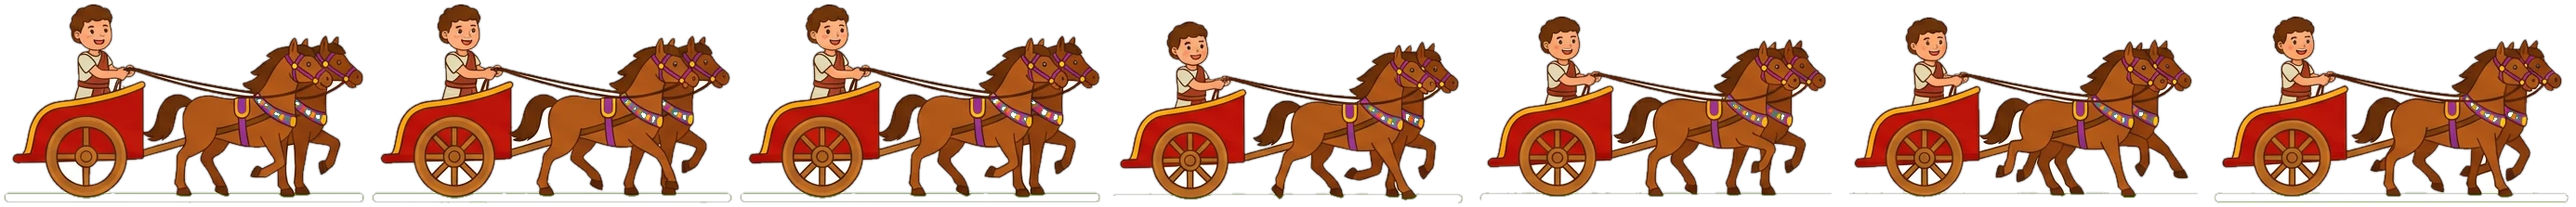
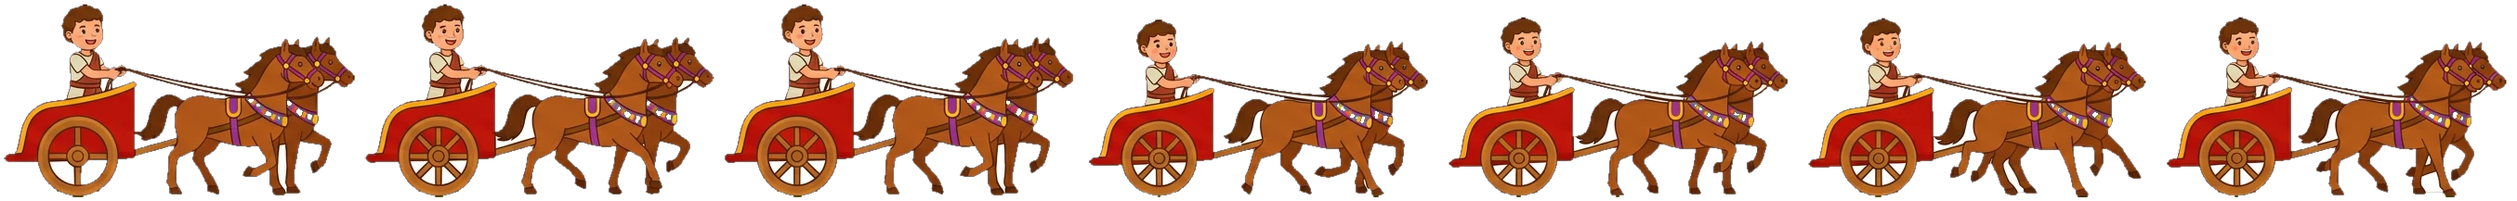
Frise : détourage propre, sens de marche, rythme calme, cap 2026
- Les 6 spritesheets re-détourés avec contour érodé d'un pixel (plus
  de liseré blanc) et herbe du char nettoyée plus fort.
- Les personnages se retournent selon le sens du glissement : on
  avance dans le temps, ils vont vers la gauche avec le paysage ; on
  recule, ils font demi-tour.
- Animation ralentie (une pose tous les 24 px au lieu de 12).
- La frise va jusqu'en 2026 (échelle, graduations, époques, barème via
  maxYear) ; tests et SPEC ajustés.

Claude-Session: https://claude.ai/code/session_01MoSM3c75amsanL64Sy4Ynm

Changed region(s): [[0.0, 0.0276, 1.0, 0.9954], [0.7442, 0.0829, 0.7752, 0.1106], [0.4341, 0.1106, 0.4651, 0.1382]]

diff --git a/erea_flutter/lib/ui/tape_widget.dart b/erea_flutter/lib/ui/tape_widget.dart
@@ -98,6 +98,11 @@ class _TapeWidgetState extends State<TapeWidget>
   double _velocity = 0; // px par frame de référence (16,7 ms)
   Duration _lastTick = Duration.zero;
 
+  // Sens de marche des personnages : on avance dans le temps → ils vont
+  // vers la gauche avec le paysage ; on recule → ils font demi-tour.
+  double _lastFrac = -1;
+  bool _facingLeft = false;
+
   @override
   void initState() {
     super.initState();
@@ -160,6 +165,10 @@ class _TapeWidgetState extends State<TapeWidget>
 
   @override
   Widget build(BuildContext context) {
+    if (_lastFrac >= 0 && (widget.frac - _lastFrac).abs() > 1e-7) {
+      _facingLeft = widget.frac > _lastFrac;
+    }
+    _lastFrac = widget.frac;
     return GestureDetector(
       onHorizontalDragStart: _onDragStart,
       onHorizontalDragUpdate: _onDragUpdate,
@@ -176,6 +185,7 @@ class _TapeWidgetState extends State<TapeWidget>
                     tapeW: tapeW,
                     frise: _friseImage,
                     artVersion: _artVersion,
+                    facingLeft: _facingLeft,
                   ),
                 ),
               ),
@@ -208,10 +218,15 @@ class _TapePainter extends CustomPainter {
     required this.tapeW,
     this.frise,
     this.artVersion = 0,
+    this.facingLeft = false,
   });
 
   final double frac;
   final double tapeW;
+
+  /// Sens de marche des personnages (dessinés vers la droite dans les
+  /// planches ; miroir quand on avance dans le temps).
+  final bool facingLeft;
 
   /// Planche des panneaux d'époques (6 cellules côte à côte), ou null
   /// tant qu'elle n'est pas décodée.
@@ -330,15 +345,22 @@ class _TapePainter extends CustomPainter {
             final x = left + spacing * (k + 0.5) - sprW / 2;
             var fi = 0;
             if (frames > 1) {
-              fi = ((frac * tapeW / 12).floor() + k) % frames;
+              fi = ((frac * tapeW / 24).floor() + k) % frames;
               if (fi < 0) fi += frames;
             }
-            canvas.drawImageRect(
-              trav,
-              Rect.fromLTWH(fi * fw, 0, fw, fh),
-              Rect.fromLTWH(x, bandBottom - sprH - 2, sprW, sprH),
-              imgPaint,
-            );
+            final srcR = Rect.fromLTWH(fi * fw, 0, fw, fh);
+            final dstR =
+                Rect.fromLTWH(x, bandBottom - sprH - 2, sprW, sprH);
+            if (facingLeft) {
+              canvas.save();
+              canvas.translate(x + sprW / 2, 0);
+              canvas.scale(-1, 1);
+              canvas.translate(-(x + sprW / 2), 0);
+              canvas.drawImageRect(trav, srcR, dstR, imgPaint);
+              canvas.restore();
+            } else {
+              canvas.drawImageRect(trav, srcR, dstR, imgPaint);
+            }
           }
         }
         canvas.restore();
@@ -450,7 +472,7 @@ class _TapePainter extends CustomPainter {
       1900,
       1950,
       2000,
-      2025,
+      2026,
     ];
     const smallLabels = [
       -2500,
@@ -506,5 +528,6 @@ class _TapePainter extends CustomPainter {
       oldDelegate.frac != frac ||
       oldDelegate.tapeW != tapeW ||
       oldDelegate.frise != frise ||
-      oldDelegate.artVersion != artVersion;
+      oldDelegate.artVersion != artVersion ||
+      oldDelegate.facingLeft != facingLeft;
 }

diff --git a/erea_flutter/test/core_test.dart b/erea_flutter/test/core_test.dart
@@ -18,7 +18,7 @@ void main() {
     });
 
     test('yearToFrac et fracToYear sont réciproques', () {
-      for (final y in [-3000, -480, 0, 800, 1492, 1789, 1900, 1969, 2025]) {
+      for (final y in [-3000, -480, 0, 800, 1492, 1789, 1900, 1969, 2026]) {
         expect(fracToYear(yearToFrac(y)), y, reason: 'année $y');
       }
     });
@@ -31,7 +31,7 @@ void main() {
     });
 
     test('le XXe siècle occupe 30 % de la frise (précision voulue)', () {
-      expect(yearToFrac(2025) - yearToFrac(1900), closeTo(0.30, 1e-9));
+      expect(yearToFrac(2026) - yearToFrac(1900), closeTo(0.30, 1e-9));
     });
 
     test('formatYear ajoute « av. J.-C. » pour les années négatives', () {
@@ -68,8 +68,8 @@ void main() {
     test('la tolérance vaut 5 % de l’ancienneté, bornée à [5, 45]', () {
       expect(tolerance(2025, Difficulty.normal), 5.0); // plancher
       expect(tolerance(1000, Difficulty.normal), 45.0); // plafond
-      expect(tolerance(1800, Difficulty.normal), closeTo(11.25, 1e-9));
-      expect(tolerance(1800, Difficulty.facile), closeTo(11.25 * 2.2, 1e-9));
+      expect(tolerance(1800, Difficulty.normal), closeTo(11.3, 1e-9));
+      expect(tolerance(1800, Difficulty.facile), closeTo(11.3 * 2.2, 1e-9));
     });
 
     test('le score décroît avec l’écart et jamais en négatif', () {

diff --git a/erea_flutter/lib/core/timeline_scale.dart b/erea_flutter/lib/core/timeline_scale.dart
@@ -3,7 +3,7 @@
 library;
 
 const int minYear = -3000;
-const int maxYear = 2025;
+const int maxYear = 2026;
 
 class Segment {
   final int from;
@@ -16,7 +16,7 @@ const List<Segment> segments = [
   Segment(-3000, 0, 0.20),
   Segment(0, 1500, 0.25),
   Segment(1500, 1900, 0.25),
-  Segment(1900, 2025, 0.30),
+  Segment(1900, 2026, 0.30),
 ];
 
 /// Année → position [0, 1] sur la frise.
@@ -67,7 +67,7 @@ const List<Era> eras = [
   Era(-500, 476, 'Antiquité'),
   Era(476, 1492, 'Moyen Âge'),
   Era(1492, 1789, 'Époque moderne'),
-  Era(1789, 2025, 'Époque contemporaine'),
+  Era(1789, 2026, 'Époque contemporaine'),
 ];
 
 Era eraFor(int y) {

diff --git a/erea_flutter/test/widget_test.dart b/erea_flutter/test/widget_test.dart
@@ -125,9 +125,9 @@ void main() {
     expect(find.text('3000 av. J.-C.'), findsOneWidget);
     expect(tester.takeException(), isNull);
 
-    tape.onFracChanged(1.0); // 2025, époque contemporaine
+    tape.onFracChanged(1.0); // 2026, époque contemporaine
     await tester.pumpAndSettle();
-    expect(find.text('2025'), findsOneWidget);
+    expect(find.text('2026'), findsOneWidget);
     expect(tester.takeException(), isNull);
   });
 

diff --git a/erea_flutter/SPEC.md b/erea_flutter/SPEC.md
@@ -11,7 +11,7 @@ Tableau d'objets :
 | Champ | Type | Description |
 |---|---|---|
 | `id` | int | Identifiant stable (ne jamais renuméroter). |
-| `annee` | int | Année de l'événement, négatif = av. J.-C. Bornes : −3000 à 2025. |
+| `annee` | int | Année de l'événement, négatif = av. J.-C. Bornes : −3000 à 2025 (la frise, elle, va jusqu'à 2026 = maxYear). |
 | `titre` | string | Court, sans l'année ni indice de date. |
 | `desc` | string | Une ligne, SANS indice chronologique (affichée pendant la manche). |
 | `cat` | string | `france` \| `monde` \| `sciences` \| `arts` \| `quotidien`. |
@@ -30,7 +30,7 @@ Position ∈ [0, 1] sur le ruban, par segments (part de largeur) :
 - −3000 → 0 : 20 %
 - 0 → 1500 : 25 %
 - 1500 → 1900 : 25 %
-- 1900 → 2025 : 30 %
+- 1900 → 2026 : 30 %
 
 Interpolation linéaire à l'intérieur d'un segment (`lib/core/timeline_scale.dart`).
 Ruban virtuel de 3 200 px, aiguille fixe au centre, inertie au relâcher
@@ -44,7 +44,7 @@ repli sur des bandes de couleur unies si l'image n'est pas chargée.
 
 ## 3. Barème
 
-- `tolérance = clamp(5 % × (2025 − année), 5, 45) × multiplicateur de difficulté`
+- `tolérance = clamp(5 % × (maxYear − année), 5, 45)  — maxYear = 2026 × multiplicateur de difficulté`
 - `points = round(1000 × exp(−écart / tolérance))`, plafonné à 1000
 - **0 point si `écart ≥ 200 × multiplicateur de difficulté`**
 - Difficultés : Facile ×2,2 (repères affichés, événements niveau ≤ 2, XP ×0,8) ·
